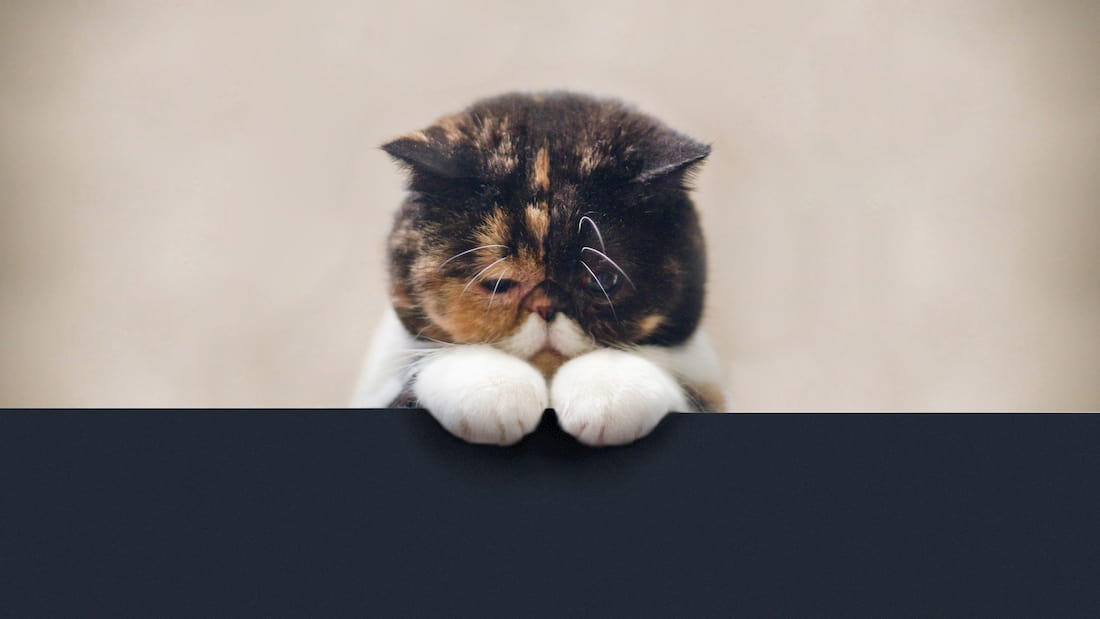
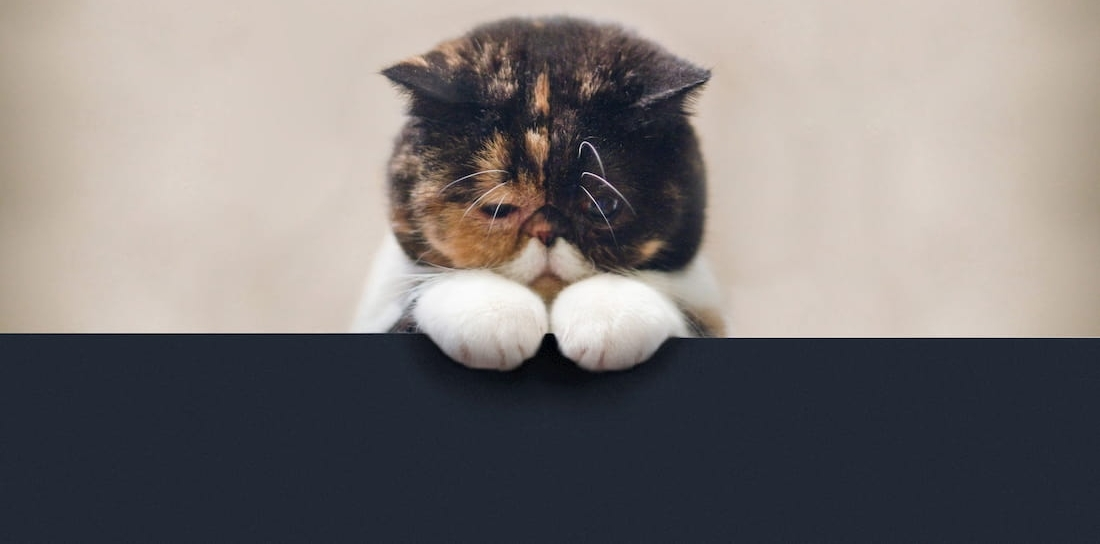
slider 1st iteration

Changed region(s): [[0.0, 0.0312, 1.0, 0.7188]]

diff --git a/css/slick-theme.css b/css/slick-theme.css
@@ -39,7 +39,7 @@
     color: transparent;
     border: none;
     outline: none;
-    background: transparent; 
+    background: transparent;
 }
 .slick-prev:hover,
 .slick-prev:focus,
@@ -67,11 +67,11 @@
 .slick-next:before
 {
     font-family: 'slick';
-    font-size: 20px;
+    font-size: 30px;
     line-height: 1;
 
     opacity: .75;
-    color:black;
+    color: black;
 
     -webkit-font-smoothing: antialiased;
     -moz-osx-font-smoothing: grayscale;
@@ -79,40 +79,40 @@
 
 .slick-prev
 {
-    left: 5px;
-    z-index: 1;
+    left: -35px;
 }
 [dir='rtl'] .slick-prev
 {
-    right: 5px;
+    right: -35px;
     left: auto;
 }
 .slick-prev:before
 {
-    content: '<';
+    content: '←';
 }
 [dir='rtl'] .slick-prev:before
 {
-    content: '>';
+    content: '→';
 }
 
 .slick-next
 {
-    right: 5px;
+    right: -25px;
 }
 [dir='rtl'] .slick-next
 {
     right: auto;
-    left: 5px;
+    left: -25px;
 }
 .slick-next:before
 {
-    content: '>';
+    content: '→';
 }
 [dir='rtl'] .slick-next:before
 {
-    content: '<';
+    content: '←';
 }
+
 
 /* Dots */
 .slick-dotted.slick-slider

diff --git a/css/styles.css b/css/styles.css
@@ -1805,7 +1805,7 @@ display: flex;
 
 
 .slider {
-  width: 80%;
+  width: 100%;
   margin: auto;
   padding-top: 2%;
   text-align: start;
